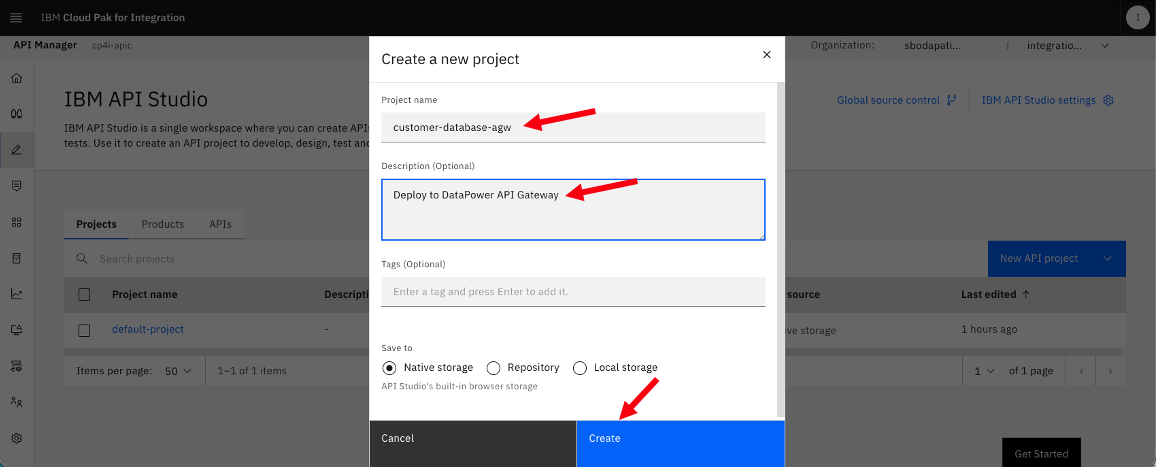
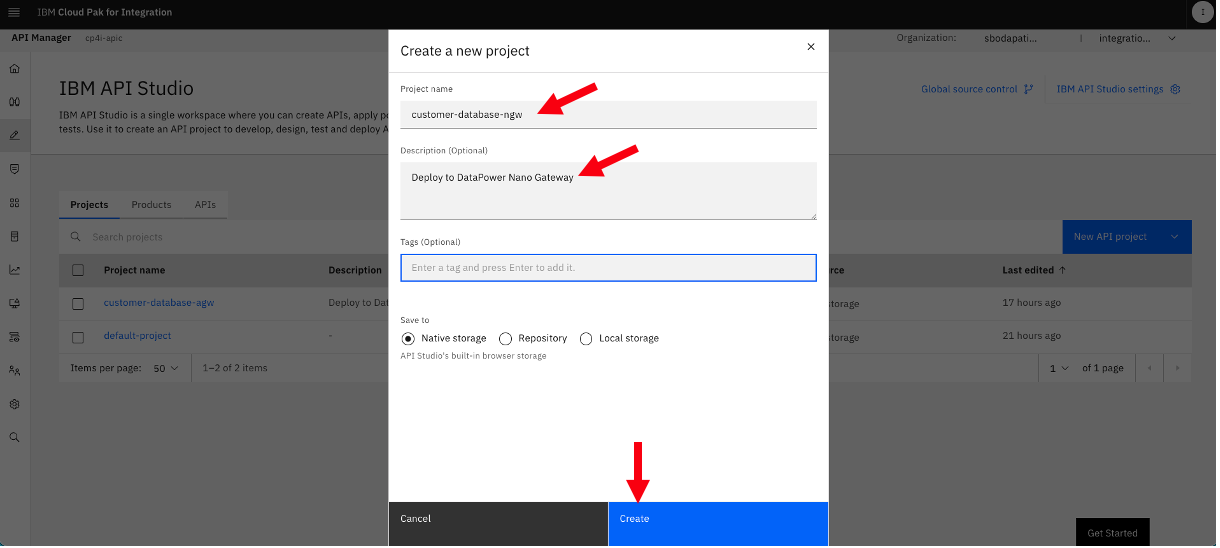
draft 2

diff --git a/APIC-labs-v12/Create-Secure-Publish-DPNGW/ReadMe.md b/APIC-labs-v12/Create-Secure-Publish-DPNGW/ReadMe.md
@@ -12,7 +12,7 @@
 - [3. Import an API into the Developer Workspace](#import_api)
 	* [3a. Create project](#create-project)
 	* [3b. Add API ](#add-api)
-	* [3c. Configure Gateway Policy](#config-api-gateway-policy)
+	* [3c. Configure DataPower Nano Gateway Policy](#config-api-gateway-policy)
 	* [3d. Configure CORS](#config-api-cors)
 	* [3e. Configure Security](#config-api-security)
 - [4. Publish API](#publish-api)
@@ -40,6 +40,7 @@ In this tutorial, you will explore the following key capabilities:
 <br>
 
 ![alt text](./images/component-diagram..png)
+![alt text](image.png)
 
 <br>
 
@@ -118,10 +119,11 @@ You will be importing the backend REST API definition into IBM API Connect Studi
 1. Click **Create New Project**.
 ![alt text](images/image-6.png)
 
-	Name it customer-database-agw, where ngw stands for the Nano Gateway. <br>
+	Name it customer-database-ngw, where ngw stands for the Nano Gateway. <br>
 ![alt text](images/image-6a.png)
 
-1.  Open the project customer-database-agw. 
+
+1.  Open the project customer-database-ngw. 
 ![alt text](images/image-6b.png)
 
 

diff --git a/APIC-labs-v12/Create-Secure-Publish-DPAPIGW/ReadMe.md b/APIC-labs-v12/Create-Secure-Publish-DPAPIGW/ReadMe.md
@@ -12,7 +12,7 @@
 - [3. Import an API into the Developer Workspace](#import_api)
 	* [3a. Create project](#create-project)
 	* [3b. Add API ](#add-api)
-	* [3c. Configure Gateway Policy](#config-api-gateway-policy)
+	* [3c. Configure DataPower API Gateway Policy](#config-api-gateway-policy)
 	* [3d. Configure CORS](#config-api-cors)
 	* [3e. Configure Security](#config-api-security)
 - [4. Publish API](#publish-api)
@@ -145,7 +145,7 @@ You will be importing the backend REST API definition into IBM API Connect Studi
 	Your backend REST API has been imported successfully. <br>
 
 
-## 3c. Configure API - Add Gateway Policy<a name="config-api-gateway-policy"></a>
+## 3c. Configure DataPower API Gateway Policy<a name="config-api-gateway-policy"></a>
 
 1. Click (+) sign next to "Policy Sequence". <br>
 ![alt text](./images/image-7a.png)
